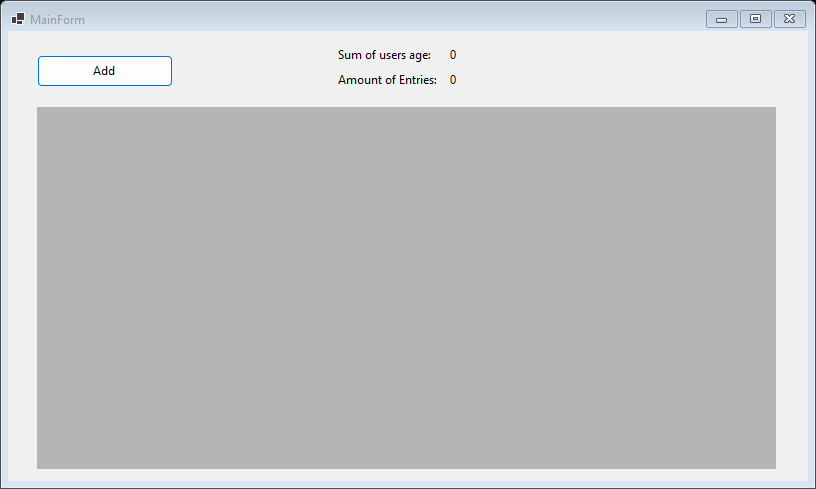
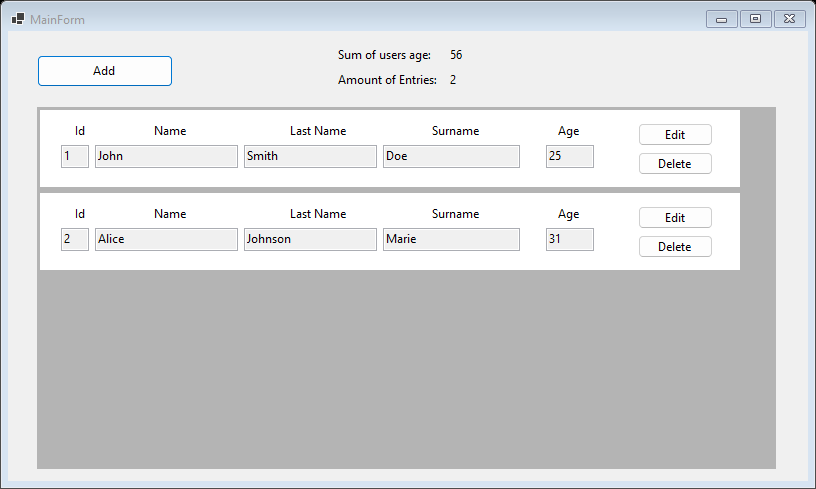
Improve lab6/lab1/lab7 screenshots, add RecordsForm/Analytics shots for survey-data-manager
- 1-Semester-2023/lab6: feed create+list with real wall-clock delays so the
  background thread finishes before list runs, instead of racing to an empty
  list against the app's own Thread.Sleep(5000) calls.
- 2-Semester-2024/lab1: populate the dataStorage panel with sample records
  (via reflection on the private click handler + textbox fields) instead of
  capturing the form in its empty startup state.
- 2-Semester-2024/lab7: show the Login window for real before rendering -
  capturing Content without ever calling Show() skipped WPF's real
  initialization pass, so the implicit TextBox style never applied and
  everything rendered oversized/unstyled.
- survey-data-manager: add RecordsForm and Analytics screenshots (logged in
  as admin) alongside the existing Entrance login screen.

Claude-Session: https://claude.ai/code/session_01EsGV1nBGgkEaxvfynUyrbC

Changed region(s): [[0.0306, 0.2147, 0.9191, 0.5521], [0.5515, 0.1534, 0.5821, 0.184], [0.5515, 0.092, 0.5821, 0.1227]]

diff --git a/winforms-db-learning/survey-data-manager/Screenshot/Program.cs b/winforms-db-learning/survey-data-manager/Screenshot/Program.cs
@@ -2,6 +2,8 @@ using System;
 using System.Drawing;
 using System.Drawing.Imaging;
 using System.IO;
+using System.Linq;
+using System.Threading;
 using System.Windows.Forms;
 using Microsoft.EntityFrameworkCore;
 using Microsoft.Extensions.DependencyInjection;
@@ -12,37 +14,76 @@ using MyWinFormsAppForDb.Services.Interfaces;
 
 if (args.Length < 1)
 {
-	Console.Error.WriteLine("Usage: Screenshot <output-png-path>");
+	Console.Error.WriteLine("Usage: Screenshot <output-png-path> [entrance|records|analytics]");
 	return 1;
 }
+
+// Which screen to capture - RecordsForm/Analytics both need a logged-in user
+// (Personalization() reads the current role to pick which tables/buttons are
+// visible), so log one in directly via IUserIdentity rather than driving
+// Entrance's login form headlessly.
+var screen = args.Length > 1 ? args[1] : "entrance";
 
 Application.EnableVisualStyles();
 Application.SetCompatibleTextRenderingDefault(false);
 
 var services = new ServiceCollection();
-services.AddTransient<Entrance>();
+services.AddSingleton<Entrance>();
+services.AddTransient<Main>();
+services.AddTransient<RecordsForm>();
+services.AddTransient<Analytics>();
 services.AddDbContext<AppDbContext>();
 services.AddScoped<IDbWorker, RealDbWorker>();
 services.AddSingleton<IUserIdentity, UserIdentity>();
 var provider = services.BuildServiceProvider();
 
-using var form = provider.GetRequiredService<Entrance>();
+Form form;
+if (screen is "records" or "analytics")
+{
+	var identity = provider.GetRequiredService<IUserIdentity>();
+	var worker = provider.GetRequiredService<IDbWorker>();
+	var admin = worker.Users.First(u => u.Login == "admin");
+	identity.Login(admin);
 
-// DrawToBitmap doesn't paint child controls correctly on a form that's never
-// actually been shown (a documented WinForms limitation) - show it for real,
-// just positioned off the visible desktop so nothing appears on screen.
-form.StartPosition = FormStartPosition.Manual;
-form.Location = new Point(-32000, -32000);
-form.ShowInTaskbar = false;
-form.Show();
-Application.DoEvents();
+	form = screen == "records"
+		? provider.GetRequiredService<RecordsForm>()
+		: provider.GetRequiredService<Analytics>();
+}
+else
+{
+	form = provider.GetRequiredService<Entrance>();
+}
 
-using var bitmap = new Bitmap(form.Width, form.Height);
-form.DrawToBitmap(bitmap, new Rectangle(0, 0, form.Width, form.Height));
-form.Close();
+using (form)
+{
+	// DrawToBitmap doesn't paint child controls correctly on a form that's
+	// never actually been shown (a documented WinForms limitation) - show it
+	// for real, just positioned off the visible desktop so nothing appears
+	// on screen.
+	form.StartPosition = FormStartPosition.Manual;
+	form.Location = new Point(-32000, -32000);
+	form.ShowInTaskbar = false;
+	form.Show();
+	Application.DoEvents();
 
-var outputPath = args[0];
-Directory.CreateDirectory(Path.GetDirectoryName(Path.GetFullPath(outputPath))!);
-bitmap.Save(outputPath, ImageFormat.Png);
-Console.WriteLine($"Saved {outputPath}");
+	// RecordsForm/Analytics populate their grid/chart via an async void event
+	// handler fired from setting SelectedIndex in the constructor - pump the
+	// message loop a few times so that continuation actually completes
+	// before capturing, instead of racing ahead to an empty grid/chart.
+	for (var i = 0; i < 20; i++)
+	{
+		Application.DoEvents();
+		Thread.Sleep(100);
+	}
+
+	using var bitmap = new Bitmap(form.Width, form.Height);
+	form.DrawToBitmap(bitmap, new Rectangle(0, 0, form.Width, form.Height));
+	form.Close();
+
+	var outputPath = args[0];
+	Directory.CreateDirectory(Path.GetDirectoryName(Path.GetFullPath(outputPath))!);
+	bitmap.Save(outputPath, ImageFormat.Png);
+	Console.WriteLine($"Saved {outputPath}");
+}
+
 return 0;

diff --git a/dotnet-gidsik/2-Semester-2024/lab1/WinFormsApp1/Screenshot/Program.cs b/dotnet-gidsik/2-Semester-2024/lab1/WinFormsApp1/Screenshot/Program.cs
@@ -2,6 +2,7 @@ using System;
 using System.Drawing;
 using System.Drawing.Imaging;
 using System.IO;
+using System.Reflection;
 using System.Windows.Forms;
 using WinFormsApp1;
 
@@ -23,6 +24,44 @@ form.StartPosition = FormStartPosition.Manual;
 form.Location = new Point(-32000, -32000);
 form.ShowInTaskbar = false;
 form.Show();
+Application.DoEvents();
+
+// btnAdd_Click just adds an empty PersonRecordUserControl (its fields all
+// read "null" until the user opens the per-record Edit dialog) - the real
+// lab demo is that control populated with data, not an empty one, so drive
+// btnAdd's private click handler via reflection to add a few, then fill
+// their (also private) textboxes directly rather than driving the modal
+// Edit dialog headlessly.
+var clickAdd = typeof(MainForm).GetMethod("btnAdd_Click", BindingFlags.NonPublic | BindingFlags.Instance)!;
+var sampleRecords = new[]
+{
+	new { Id = "1", Name = "John", LastName = "Smith", Surname = "Doe", Age = 25 },
+	new { Id = "2", Name = "Alice", LastName = "Johnson", Surname = "Marie", Age = 31 },
+};
+
+var dataStorage = (FlowLayoutPanel)typeof(MainForm)
+	.GetField("dataStorage", BindingFlags.NonPublic | BindingFlags.Instance)!
+	.GetValue(form)!;
+
+foreach (var record in sampleRecords)
+{
+	clickAdd.Invoke(form, new object?[] { null, EventArgs.Empty });
+	var control = (PersonRecordUserControl)dataStorage.Controls[^1];
+
+	void SetTextBox(string fieldName, string text) =>
+		((TextBox)typeof(PersonRecordUserControl)
+			.GetField(fieldName, BindingFlags.NonPublic | BindingFlags.Instance)!
+			.GetValue(control)!).Text = text;
+
+	SetTextBox("txtBoxId", record.Id);
+	SetTextBox("txtBoxName", record.Name);
+	SetTextBox("txtBoxLN", record.LastName);
+	SetTextBox("txtBoxSN", record.Surname);
+	SetTextBox("txtBoxAge", record.Age.ToString());
+	control.Age = record.Age;
+}
+
+typeof(MainForm).GetMethod("Recalculate", BindingFlags.NonPublic | BindingFlags.Instance)!.Invoke(form, null);
 Application.DoEvents();
 
 using var bitmap = new Bitmap(form.Width, form.Height);

diff --git a/dotnet-gidsik/2-Semester-2024/lab7/Screenshot/Program.cs b/dotnet-gidsik/2-Semester-2024/lab7/Screenshot/Program.cs
@@ -23,11 +23,20 @@ var thread = new Thread(() =>
 
 	var window = new Login();
 
-	// A Window's own render root isn't fully constructed until it's actually
-	// shown, so RenderTargetBitmap.Render(window) on an unshown window produces
-	// blank output - render its Content instead, which has no such dependency.
+	// Rendering Content directly without ever showing the Window skips WPF's
+	// real initialization pass: implicit Grid resource styles (the TextBox
+	// Style below) don't get applied and content isn't clipped to its layout
+	// bounds, so text/controls render oversized and unstyled. Show it for
+	// real, off-screen, like the analogous WinForms DrawToBitmap fix.
+	window.WindowStartupLocation = WindowStartupLocation.Manual;
+	window.Left = -32000;
+	window.Top = -32000;
+	window.ShowInTaskbar = false;
+	window.Show();
+	window.UpdateLayout();
+
 	var content = (FrameworkElement)window.Content;
-	var size = new Size(window.Width, window.Height);
+	var size = new Size(window.ActualWidth, window.ActualHeight);
 	content.Measure(size);
 	content.Arrange(new Rect(size));
 	content.UpdateLayout();
@@ -55,6 +64,8 @@ var thread = new Thread(() =>
 	{
 		encoder.Save(stream);
 	}
+
+	window.Close();
 });
 thread.SetApartmentState(ApartmentState.STA);
 thread.Start();

diff --git a/winforms-db-learning/survey-data-manager/README.md b/winforms-db-learning/survey-data-manager/README.md
@@ -8,4 +8,12 @@ WinForms app for geodetic survey data — `Project`, `Terrain`, `Picket`, `Measu
 
 *(the `Entrance` login screen)*
 
+![Screenshot](docs/screenshot-records.png)
+
+*(`RecordsForm`, logged in as `admin` — the main CRUD grid)*
+
+![Screenshot](docs/screenshot-analytics.png)
+
+*(`Analytics`, logged in as `admin` — the read-only summary chart)*
+
 **Tech stack:** C#, .NET 6.0, WinForms, EF Core, SQLite, DI
